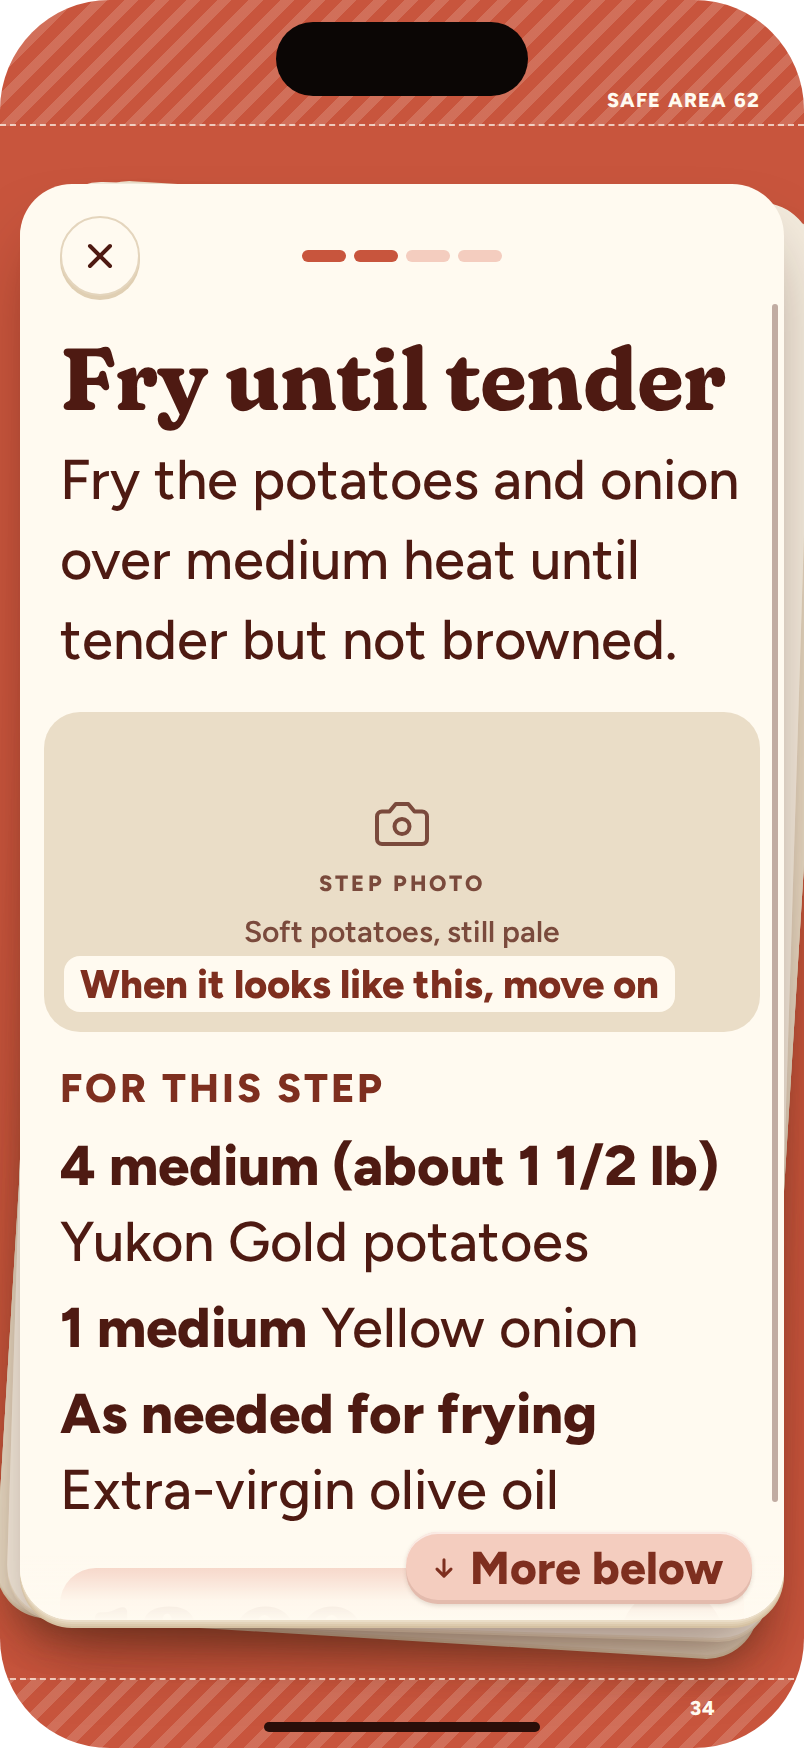
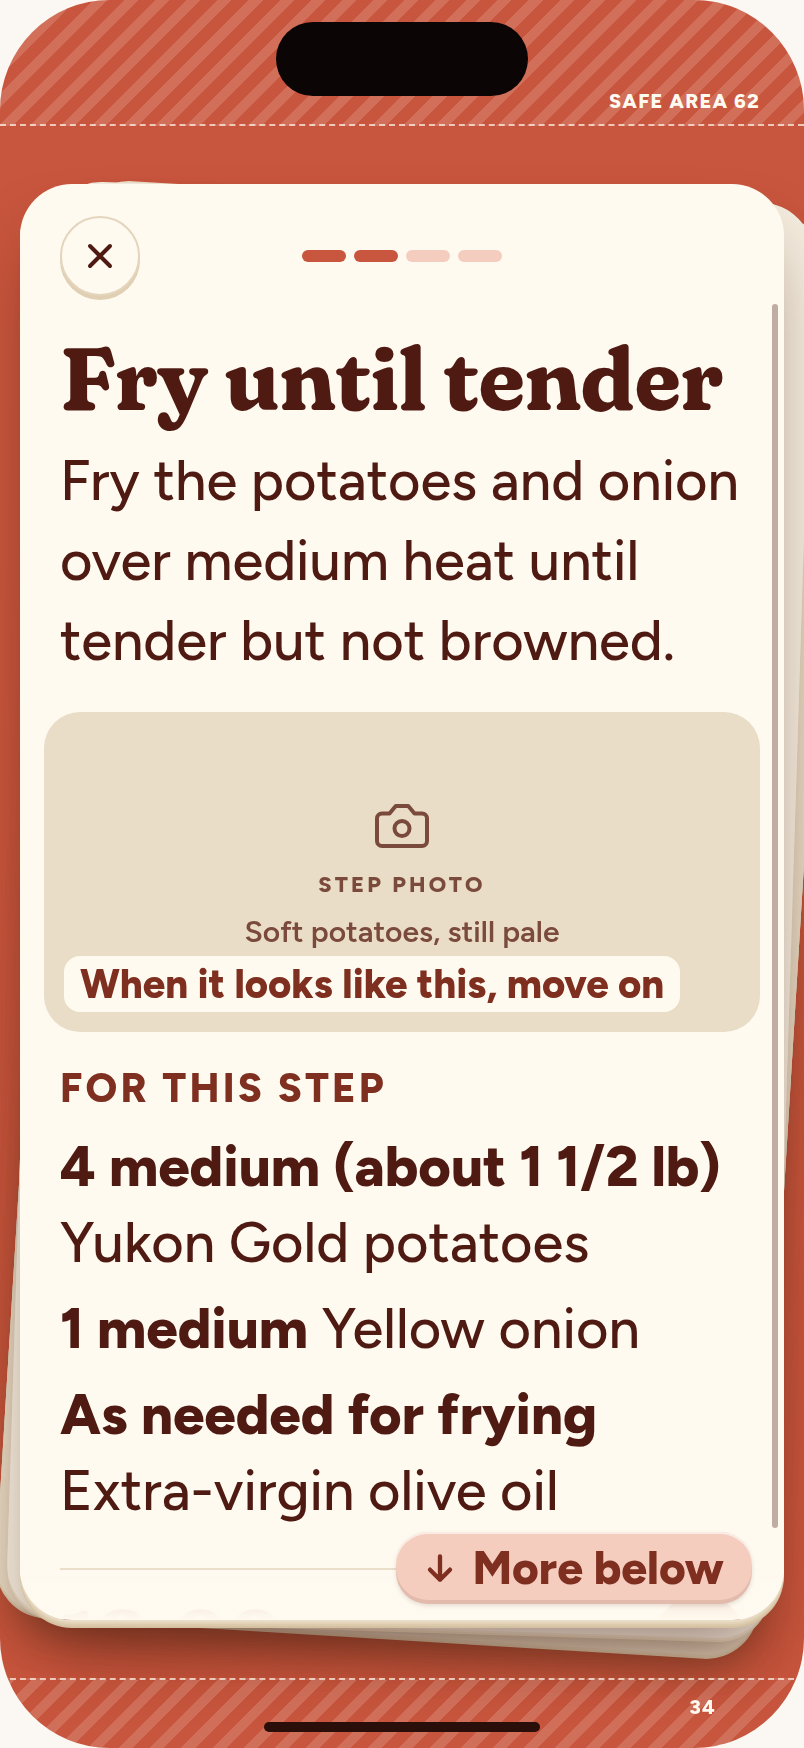
docs: sign off the Temporizador zone T1, pause, Stop and the clip states (#5, #12) (#139)
Round of 2026-10-29: bottom zone T1 (Line) in every state, pause and
Stop back to ready, Leave cooking? stops the Temporizadores, the
one-time alarm permission sheet, and the technique clip loading,
paused with full screen, silent and unavailable. Re-exports the three
boards that showed the old zone and adds ten new ones.

Part of #5
Part of #12

diff --git a/docs/design/karta-v1.md b/docs/design/karta-v1.md
@@ -130,7 +130,14 @@ Layout rules (reference: canvas board *Reverse A centered · course on top*):
 Signed off on 2026-10-19 by the founder. On 2026-10-22 (#101) the founder also signed off how a
 Paso fits on a real phone, the finish card and what gives way when a Paso does not fit. That
 round replaces the Up next row and the outcome on the last Paso of *Cooking · round 3*.
-Reference: the design canvas *Karta · Cooking fit (#101)*
+On 2026-10-29 (#5, #12) the founder signed off the Temporizador bottom zone **T1 · Line** in all
+its states (ready, running, paused, *Time's up*), pause and Stop, the *Leave cooking?* sheet,
+the one-time alarm permission sheet and the technique clip states (loading, paused, full screen,
+unavailable). That round replaces the filled bottom zone of *Cooking · round 2*, board D2.
+Its reference is the artifact *Karta · Cooking timer and clip*
+(<https://claude.ai/artifact/KZiYnZdk5sqrNrAn2LDDbQ>, tab *Para firmar · T1*, marked *Signed off
+2026-10-29*; rounds 1 and 2 are kept in their own tabs).
+Earlier reference: the design canvas *Karta · Cooking fit (#101)*
 (<https://claude.ai/artifact/UHnP8RdK9jP9a1fkDeLUm5>; rounds D and E side by side, the signed
 boards are the `Signed*` artboards), plus *Cooking · round 3* in the canvas linked from #15 for
 everything this section does not change. PNGs in `docs/design/screens/`, all drawn on an iPhone
@@ -139,17 +146,23 @@ everything this section does not change. PNGs in `docs/design/screens/`, all dra
 | PNG | Board |
 |---|---|
 | `cooking-step-first.png` | Paso 1 with the swipe hint |
-| `cooking-step-timer.png` | Paso 2, Temporizador ready |
+| `cooking-step-timer.png` | Paso 2, Temporizador ready (T1) |
+| `cooking-timer-running.png`, `cooking-timer-paused.png`, `cooking-timer-done.png` | Paso 2, Temporizador running, paused and *Time's up* (T1) |
 | `cooking-step.png` | Paso 3 |
 | `cooking-last-step.png` | last Paso with the technique clip; the finish card peeks behind |
 | `cooking-finish.png`, `cooking-finish-answered.png` | the finish card, before and after the outcome |
-| `cooking-timer-elsewhere-{running,done}.png` | a running Temporizador seen from another Paso (#5) |
+| `cooking-timer-elsewhere-{running,paused,done}.png` | a Temporizador seen from another Paso: running, paused, *Time's up* |
+| `cooking-leave.png` | the *Leave cooking?* sheet, here over Paso 2 with its Temporizador running |
+| `cooking-alarm-permission.png` | the one-time sheet after the alarm permission is denied |
+| `cooking-clip-loading.png`, `cooking-clip-paused.png`, `cooking-clip-unavailable.png` | the technique clip loading, paused (with the full-screen button) and unavailable |
+| `cooking-clip-fullscreen.png` | the technique clip full screen, paused |
 | `cooking-step-shrunk.png` | a long Paso: the media window gives way (see *When a Paso does not fit*) |
 | `cooking-step-ax.png` | Paso 2 at Dynamic Type AX1: the card scrolls with the signal |
 
 On the boards of Pasos 1–3 the Foto del paso is a placeholder because no step photos exist yet
-(#104); build the window as on the last Paso. The *Leave cooking?* sheet has no board yet; only
-its text below is signed off. Product terms: `CONTEXT.md` → **Paso**, **Resumen**,
+(#104); build the window as on the last Paso. The clip boards show the name *Flip the tortilla*
+as a stand-in: the seed's clip titles are still in Spanish and the editor replaces them (#12).
+Product terms: `CONTEXT.md` → **Paso**, **Resumen**,
 **Detalle**, **Foto del paso**, **Cantidad**, **Temporizador**, **Cocinado**; ADR 0008 and 0014.
 
 Each Paso is a card the same size as the reverse, on the same suit-coloured frame. The cook
@@ -171,7 +184,8 @@ passes them sideways like a deck. After the last Paso comes one more card, the *
 │ 4 medium Yukon Gold potatoes  │  Cantidad first, then the name
 │ 1 medium Yellow onion         │
 │                               │  ≥ 20 pt, grows with free space
-│ [ 12:00 TIMER            (▶) ]│  only on a Paso with a Temporizador  (pinned)
+│ ───────────────────────────── │  1 pt line; the progress line runs along it
+│ 12:00 TIMER               (▶) │  only on a Paso with a Temporizador  (pinned)
 └───────────────────────────────┘
 ```
 
@@ -201,18 +215,38 @@ Order, top to bottom (all left-aligned on the 20 pt inner edge unless stated):
   suit `chipInk`, radius 8) reads *When it looks like this, move on*. If the Paso has a
   technique clip, the chip shows the clip's name and length instead, and a 60 pt `card` circle
   with a play glyph sits in the centre: tapping it plays the clip **in the same window**; when
-  it ends, the photo returns.
+  it ends, the photo returns. Its other states are in *The technique clip*.
 - **FOR THIS STEP**: 16 pt below; eyebrow as *YOU'LL NEED* on the reverse. One row per
   ingredient, 5 pt apart: the Cantidad in Figtree 800 17 / 23, then the name in Figtree 500.
   No boxes, no leaders, no wrapping tricks: a long row simply wraps.
 - **Free space**: at least 20 pt, and it absorbs whatever is left, so the bottom zone is
   always pinned to the bottom of the card.
-- **Bottom zone**, pinned, only on a Paso that declares a **Temporizador**: 20 pt from the
-  sides, 14 pt from the bottom edge; suit `chip` fill, radius 18; the time in Fraunces 900
-  36 pt, suit `chipInk`, tabular figures, plus *TIMER* (Figtree 800 12, tracking 1.2); a 52 pt
-  `brand` circle with a play glyph on the right. Running: the remaining time, a pause button
-  and a thin progress line. Done: `brand` fill, *Time's up* and a *Stop* pill (canvas page
-  *Cooking · round 2*, board D2). A Paso without a Temporizador has no bottom zone.
+- **Bottom zone**, pinned, only on a Paso that declares a **Temporizador** (T1 · Line, signed
+  off 2026-10-29). It has no fill and no box: it is one row under a 1 pt `line` rule, 20 pt from
+  the sides of the card and 14 pt from its bottom edge, with 12 pt between the rule and the row.
+  It is 71 pt tall with its margin whatever the state, so the card never jumps when the state
+  changes. The row holds, left to right: the time in Fraunces 900 28 pt, suit `chipInk`, tabular
+  figures; a label 8 pt after it (Figtree 800 11 pt, tracking 1.2, suit `chipInk`); and the
+  buttons on the right, 44 pt circles 8 pt apart. A Paso without a Temporizador has no bottom
+  zone.
+  - **Ready** (`cooking-step-timer.png`): the declared time (*12:00*) and *TIMER*; a `brand`
+    circle with a play glyph in `card`, edge `brandEdge`. Tapping it starts the Temporizador,
+    never on arrival at the Paso.
+  - **Running** (`cooking-timer-running.png`): the remaining time and *LEFT*; a `card` circle
+    with a pause glyph in suit `chipInk` (1 pt `line` border, `buttonEdge` edge). The rule
+    becomes the progress line: a 2 pt `brand` bar over it, from the left edge, as long as the
+    fraction elapsed.
+  - **Paused** (`cooking-timer-paused.png`): the time stays still and the label reads *PAUSED*;
+    the progress bar stays where it was, in suit `chipInk` at 45 % opacity. Two buttons: a
+    `card` circle with a reset glyph (↺), which takes the Temporizador back to ready, and the
+    `brand` play circle, which resumes it.
+  - **Time's up** (`cooking-timer-done.png`): the rule becomes a 2 pt `brand` line along the
+    whole width; the row reads *Time's up* in Fraunces 900 26 pt `brand`, with a *Stop* pill
+    on the right (44 pt high, 20 pt padding, `brand` fill, `brandEdge` edge, Figtree 800 15 pt
+    `card`). In the app it plays a sound and haptics once at zero.
+  - **Stop** takes the Temporizador back to ready: the zone shows the declared time and the
+    play circle again, and the cook can start it again. Its pill leaves the progress bar.
+    Stopping the alarm from the Lock Screen does the same as Stop in the app.
 - **No Up next.** The next Paso is one swipe away and already peeks behind the card. On the
   first Paso only, a hint floats 20 pt above the bottom edge, centred, and takes no space: a
   left arrow and *Swipe left for step 2* (Figtree 700 13, `inkMuted`). It fades out after 3 s
@@ -233,6 +267,40 @@ Order, top to bottom (all left-aligned on the 20 pt inner edge unless stated):
   **Finish** (the primary button, 56 pt), which ends the session without asking.
 - The answer is the only explicit Cocinado (ADR 0008); a session that ends without it is left
   to the inferred one.
+
+### The technique clip
+
+The clip always plays **without sound**: there is no sound control, in the window or full
+screen, and it never interrupts the cook's music. It plays once; when it ends, the photo, the
+chip and the play circle come back.
+
+- **Loading** (`cooking-clip-loading.png`): the play glyph in the 60 pt circle gives way to an
+  activity indicator (suit `chip` track, suit `chipInk` arc). It shows only if loading takes
+  longer than 0.3 s.
+- **Playing**: the clip fills the window (`cover`, same radius). The play circle goes; the chip
+  with the clip's name stays; a 5 pt progress line runs along the bottom edge of the window,
+  `card` over a `videoTrack` track.
+- **Paused** (`cooking-clip-paused.png`): a tap anywhere on the playing window pauses it. The
+  play circle comes back in the centre, and a 36 pt `card` circle with an expand glyph (suit
+  `chipInk`) sits 10 pt from the top right corner. The progress line stays where it stopped.
+  Another tap on the window, or the play circle, resumes; the expand button opens the clip
+  full screen.
+- **While the clip plays or is paused the window keeps its taps**: a tap on it never changes
+  Paso. Outside the window the halves of the card work as always. Changing Paso, or leaving the
+  session, stops the clip and the photo returns.
+- **Full screen** (`cooking-clip-fullscreen.png`): a near-black screen (`videoGround`) with the clip
+  fitted to the width and centred. At the top, 8 pt below the top safe area: a 44 pt collapse
+  button (`card` at 16 % on the dark ground) and the clip's name (Figtree 800 15 pt `card`) over
+  the Resumen of its Paso and the step number (Figtree 600 13 pt, `card` at 65 %). At the bottom,
+  24 pt above the bottom safe area: a scrubber with the elapsed and total time (Figtree 700
+  13 pt, tabular) and a 64 pt `card` play/pause circle. No sound or volume control. While it
+  plays, the controls hide after 2 s and a tap shows them. The collapse button or a swipe down
+  closes it and returns to the Paso with the clip paused at the same point. Turning the phone
+  shows the clip landscape, full screen; the cooking session itself stays portrait.
+- **Unavailable** (`cooking-clip-unavailable.png`): if the clip cannot load, the photo stays,
+  the chip reads *Clip unavailable* after a small warning glyph, and the play circle goes.
+  There is no retry: clips are bundled with the app, so retrying would not help. The Paso works
+  as usual.
 
 ### When a Paso does not fit
 
@@ -260,15 +328,16 @@ set smaller, never in columns), the 20 pt of free space when scrolled to the end
 type sizes. Nothing is ever clipped without the signal.
 
 With the seed at the default text size on an iPhone 17 every Paso fits with the window at
-220 pt (Paso 2: about 90 pt free; last Paso: about 85 pt free). A Paso with a two-line
+220 pt (Paso 2: about 105 pt free with the T1 bottom zone; last Paso: about 85 pt free). A Paso with a two-line
 Resumen, a three-line Detalle, six ingredients and a Temporizador fits with the window at
-166 pt (`cooking-step-shrunk.png`). The canvas measures every case live under each board.
+182 pt (`cooking-step-shrunk.png`; it was 166 pt with the filled bottom zone). The canvas measures every case live under each board.
 
 ### Text size
 
-Text follows Dynamic Type, scaled relative to: Resumen, the finish-card title and the timer
-digits → `.largeTitle`; Detalle, ingredient rows and **Finish** → `.body`; *FOR THIS STEP*,
-*TIMER* and the media chip → `.caption1`; the outcome labels, the swipe hint and the signal chip
+Text follows Dynamic Type, scaled relative to: Resumen and the finish-card title →
+`.largeTitle`; the timer digits and *Time's up* → `.title1`; Detalle, ingredient rows and
+**Finish** → `.body`; *FOR THIS STEP* and the media chip → `.caption1`; the timer label
+(*TIMER*, *LEFT*, *PAUSED*) → `.caption2`; the outcome labels, the swipe hint and the signal chip
 → `.footnote`. Buttons and circles keep their size and grow only if their label needs it.
 
 - **Up to xxxL** the rules above apply as they are.
@@ -286,14 +355,31 @@ digits → `.largeTitle`; Detalle, ingredient rows and **Finish** → `.body`; *
   the card also advances and the left half goes back; buttons (play, timer, outcome, signal
   chip, ✕) never move between Pasos. The only vertical gesture is scrolling a card whose
   content does not fit.
-- **Leaving**: only the ✕, and it always asks first: a sheet *Leave cooking? You're on step
-  3 of 4.* with *Keep cooking* and *Leave*. Leaving ends the session for good (#34).
+- **Leaving**: only the ✕, and it always asks first (`cooking-leave.png`): a sheet titled
+  *Leave cooking?* (Resumen style, 28 pt) with the step position (*You're on step 2 of 4.*, Detalle style) below
+  it, the primary *Keep cooking* button (56 pt, `brand`) and the secondary *Leave* button
+  (56 pt, `card` with the tactile edge) under it. The sheet rises from the bottom over a
+  `scrim`, radius 26 at the top, 20 pt side padding and a grabber; its buttons end 16 pt above
+  the bottom safe area. The text does not change when a Temporizador is running. Leaving ends
+  the session for good (#34) and **stops every Temporizador**: running or paused ones are
+  cancelled with their AlarmKit alarms, so nothing rings after the session is over.
 - **A running Temporizador seen from another Paso**: its Paso's segment in the progress bar
   becomes an outlined pill, 26 pt high, radius 13, 1.5 pt suit `chipInk` border, `card` fill,
   Figtree 800 13 pt suit `chipInk`, tabular: *11:42*. At zero it fills with `brand` and reads
-  *Time's up* in `card`, with haptics and sound. Tapping it goes to that Paso. Several
-  running timers each take their own segment. Outside the app, AlarmKit shows the countdown
-  on the Lock Screen and Dynamic Island and rings even in silent mode (ADR 0014).
+  *Time's up* in `card`, with haptics and sound. A paused one keeps the pill, with a
+  pause glyph before the still time and a dashed border (`cooking-timer-elsewhere-paused.png`).
+  *Time's up* stays until Stop. Tapping the pill goes to that Paso. Several running timers each
+  take their own segment. Outside the app, AlarmKit shows the countdown
+  on the Lock Screen and Dynamic Island and rings even in silent mode (ADR 0014). Pausing or
+  resuming in the app pauses or resumes the AlarmKit countdown, and AlarmKit's own pause and
+  resume buttons do the same as the app's.
+- **Alarm permission**: Karta asks for it the first time the cook starts a Temporizador, never
+  before (ADR 0014). If the cook denies it, the Temporizador starts anyway and a sheet explains
+  it, once (`cooking-alarm-permission.png`): *Alarms are off* (Resumen style, 28 pt), *The timer
+  runs, but it can only ring while Karta is open. To hear it with the phone locked, allow alarms
+  in Settings.*, then *OK* (primary) and *Open Settings* (secondary), laid out as *Leave
+  cooking?*. After that the bottom zone is the usual one and the sheet never comes back. With the
+  permission denied, the Temporizador rings only while Karta is open.
 - The screen stays awake for the whole session. Colours come from the suit of the recipe's
   primary Course even though the Course is not named.
 

diff --git a/docs/adr/0014-temporizadores-con-alarmkit.md b/docs/adr/0014-temporizadores-con-alarmkit.md
@@ -26,3 +26,18 @@ y en modo Concentración.
   primera vez que la usuaria arranca un temporizador, no antes.
 - El estado del temporizador sigue viviendo en `CookingSession` (`KartaCore`); AlarmKit sólo lo
   refleja fuera de la app y nunca decide nada.
+
+## Ampliación del 2026-10-29 (#5)
+
+- **Pausa.** Un temporizador puede pausarse y reanudarse. La pausa vive en `CookingSession` (el
+  tiempo que queda) y se guarda en la sesión (ADR 0010). AlarmKit pausa y reanuda su cuenta
+  atrás para reflejarla, y sus propios botones de pausa y reanudación son acciones de la app
+  como las de la pantalla: nunca deciden por su cuenta.
+- **Stop** devuelve el temporizador a listo y para la alarma de AlarmKit si estaba sonando.
+  Para la inferencia del Cocinado (ADR 0008) cuenta que se arrancó, aunque luego se pare.
+- **Salir de la sesión cancela los temporizadores.** Salir termina la sesión para siempre, así
+  que una alarma que sonara después no tendría a qué Paso volver. Al salir, los temporizadores
+  corriendo o en pausa se cancelan con sus alarmas de AlarmKit. Hasta ahora `KartaCore` los
+  dejaba correr tras salir.
+- **Sin permiso de alarmas** el temporizador corre igual y sólo suena con Karta abierta. Una
+  hoja lo explica una sola vez, cuando se deniega el permiso.

diff --git a/CONTEXT.md b/CONTEXT.md
@@ -94,6 +94,8 @@ _Avoid_: ingrediente sugerido, extra, "al gusto" como opcional
 **Clip de técnica**:
 Un vídeo corto y reutilizable que muestra una técnica concreta (picar cebolla, comprobar
 el punto del pollo). Se comparte entre muchas recetas y sólo aparece en pasos no obvios.
+Se ve sin sonido, en la ventana del Paso o a pantalla completa; si no carga, el Paso sigue con
+su foto.
 _Avoid_: vídeo, tutorial
 
 **MediaReference**:
@@ -247,6 +249,10 @@ _Avoid_: carta, tarjeta, Paso final como nombre del Cierre
 La cuenta atrás que declara un Paso y que la usuaria arranca a propósito. Sigue corriendo
 aunque cambie de Paso, salga de la app o bloquee el móvil, y avisa al terminar aunque el móvil
 esté en silencio. Arrancarlo es una de las señales de que se está cocinando de verdad.
+Está listo, corriendo, en pausa o terminado (*Time's up*). En pausa conserva el tiempo que
+queda hasta que se reanuda, o vuelve a listo si se reinicia. **Stop** apaga el aviso de un
+temporizador terminado y lo devuelve a listo, así que se puede arrancar otra vez. Salir de la
+Sesión de cocina para todos sus temporizadores y cancela sus alarmas: nada suena después.
 _Avoid_: alarma, cronómetro, timer
 
 **Cocinado**:
